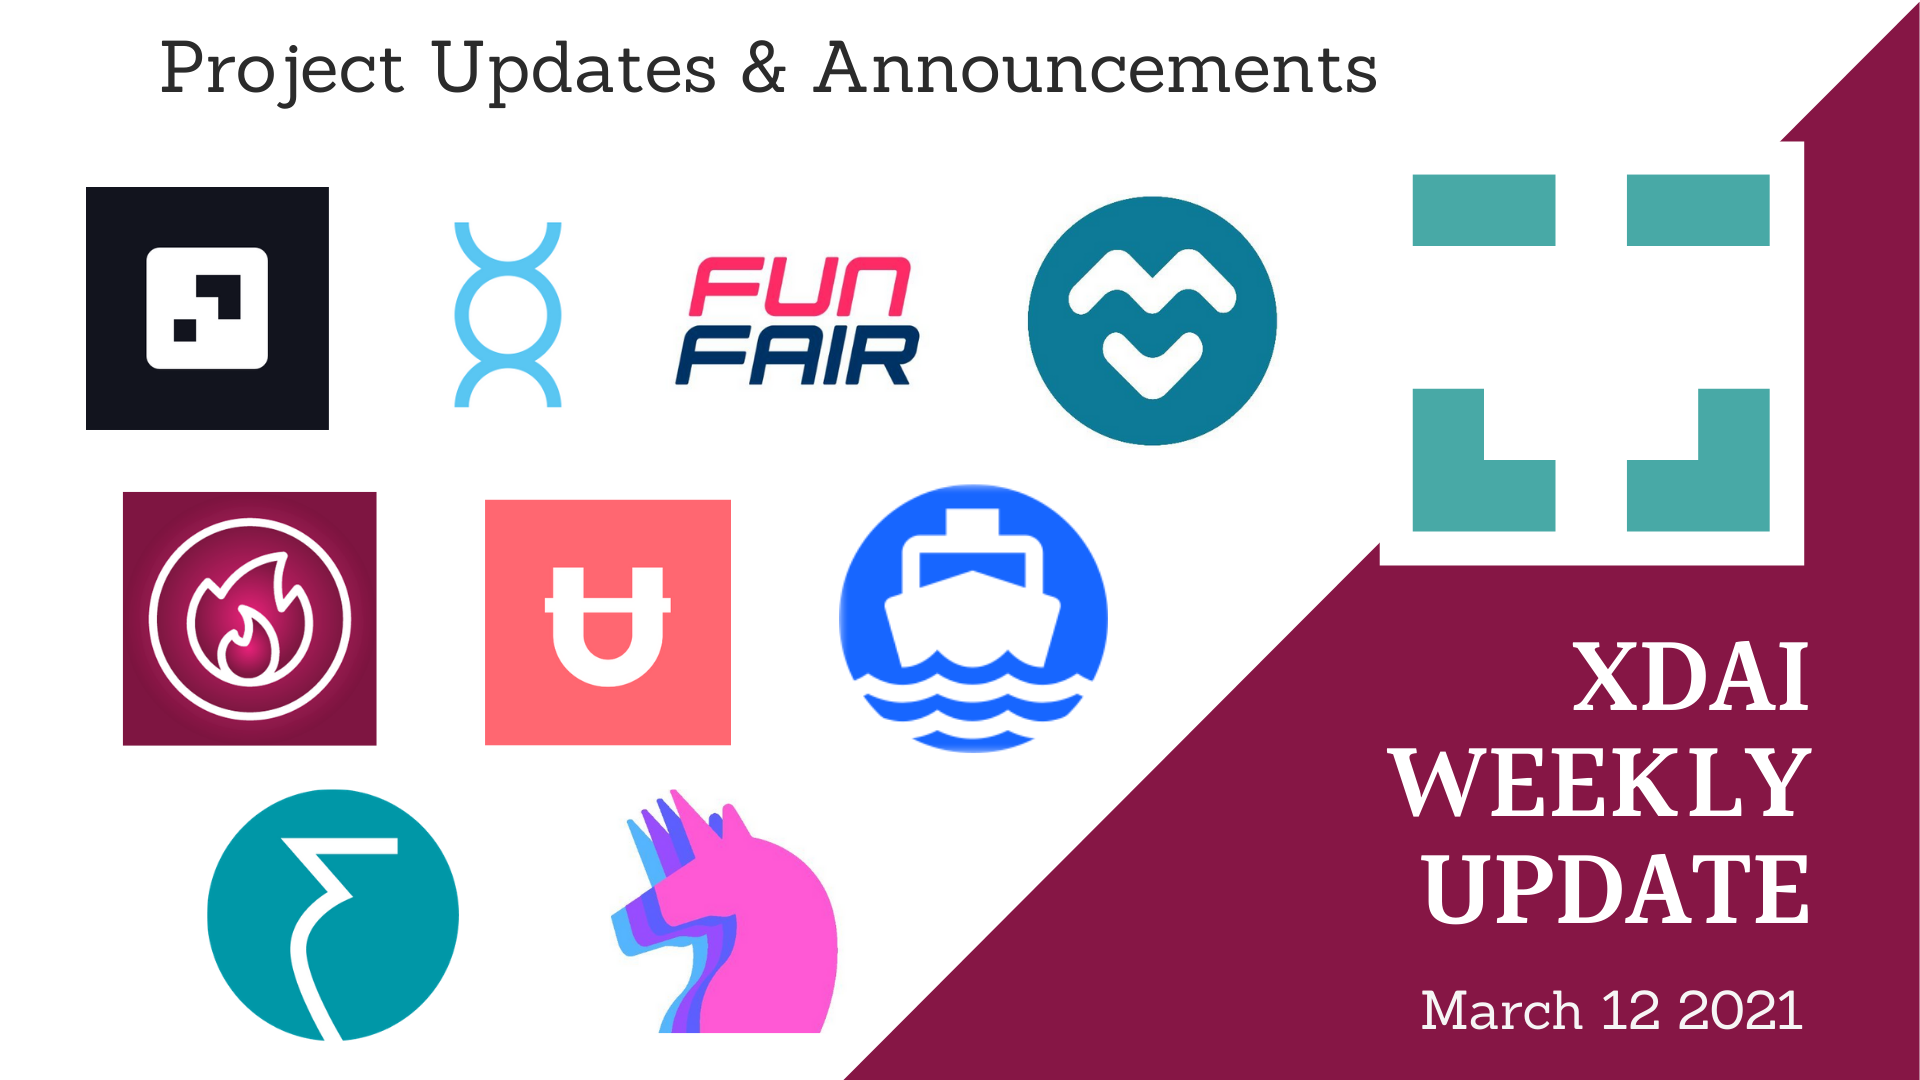
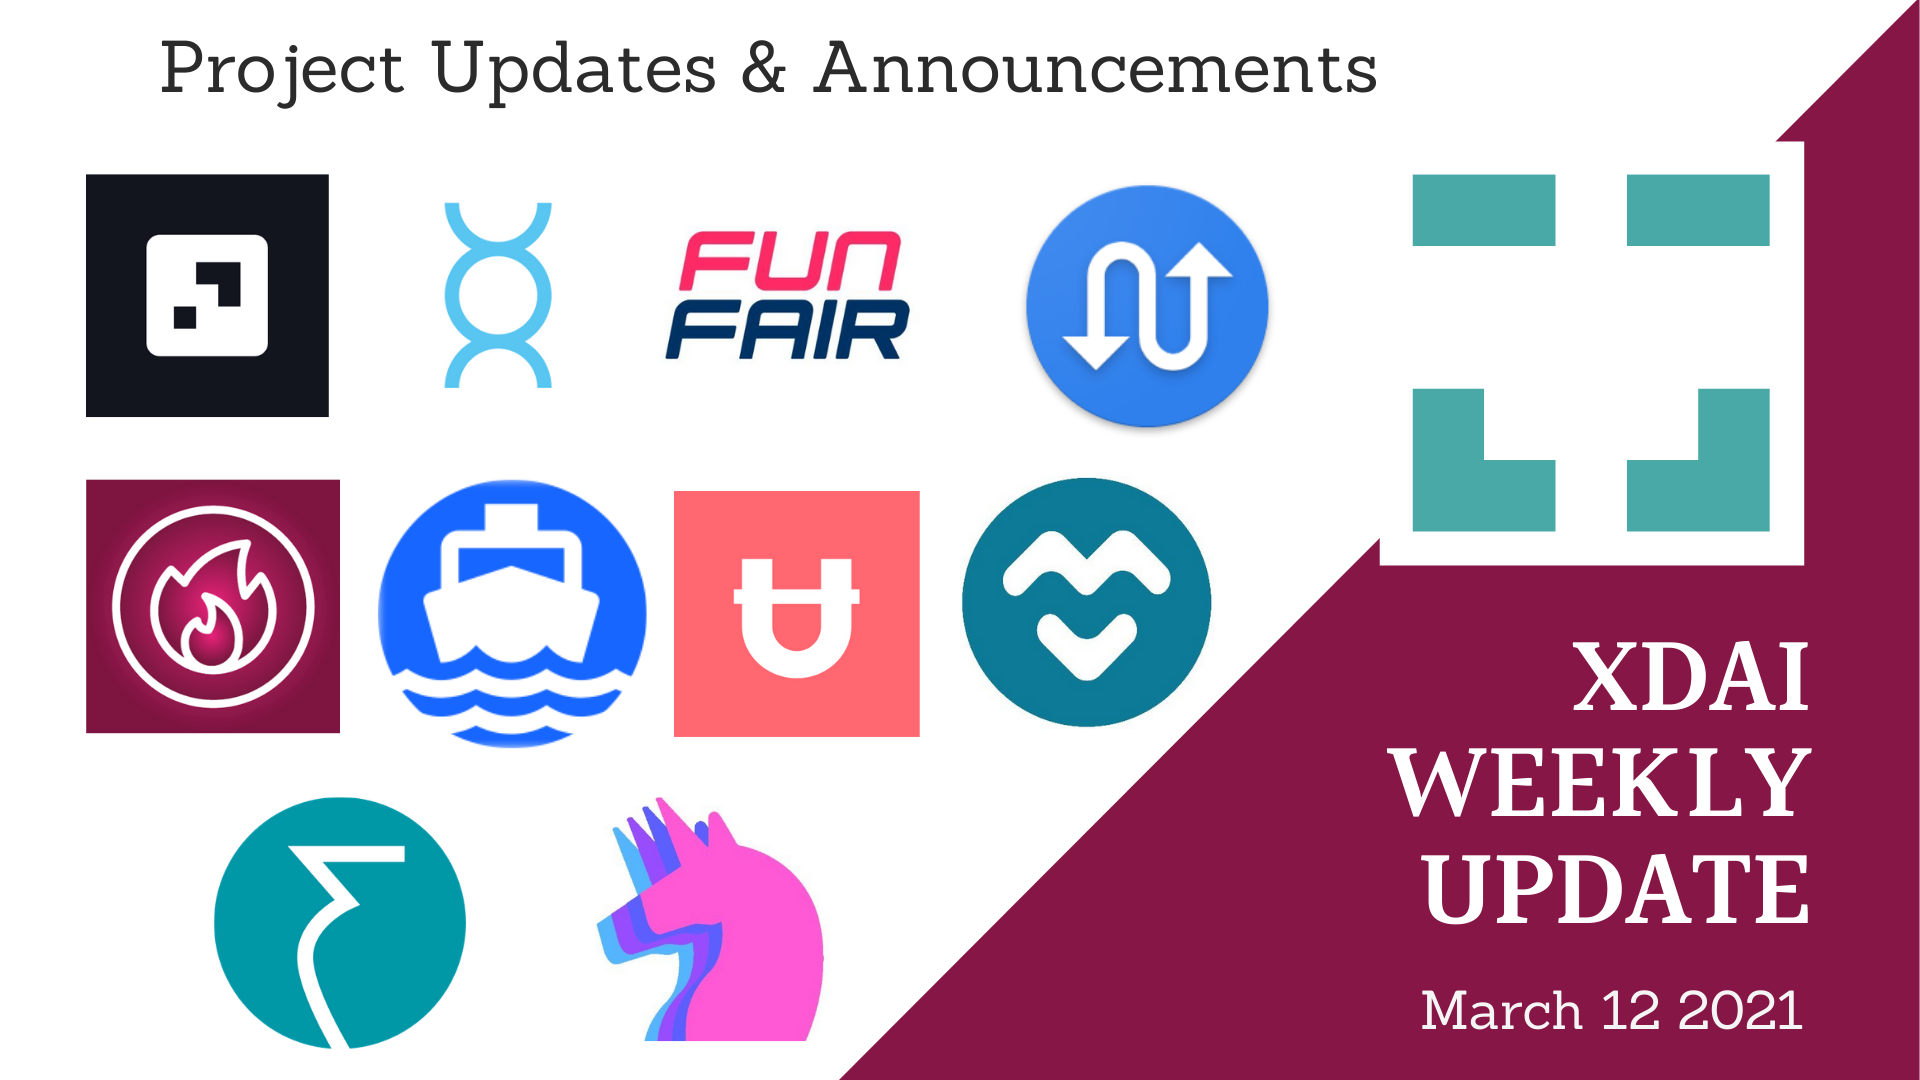
GitBook: [master] one page and 2 assets modified

diff --git a/about-xdai/news-and-information/project-updates/2021-weekly-updates/xdai-weekly-recap-12-03-21.md b/about-xdai/news-and-information/project-updates/2021-weekly-updates/xdai-weekly-recap-12-03-21.md
@@ -37,6 +37,12 @@ The bridge wallet is now compatible with xDai, and includes a new Fiat onramp, a
 
 {% embed url="https://twitter.com/mtpelerin/status/1369297227131273220" %}
 
+### MultiChain XYZ
+
+Upgrade adds xDai to multichain nodes!
+
+{% embed url="https://twitter.com/multichainxyz/status/1370443480846176262?s=19" %}
+
 ### MyCrypto
 
 MyCrypto article series on xDai continues with the 2nd installment, all about bridges and interoperability.
